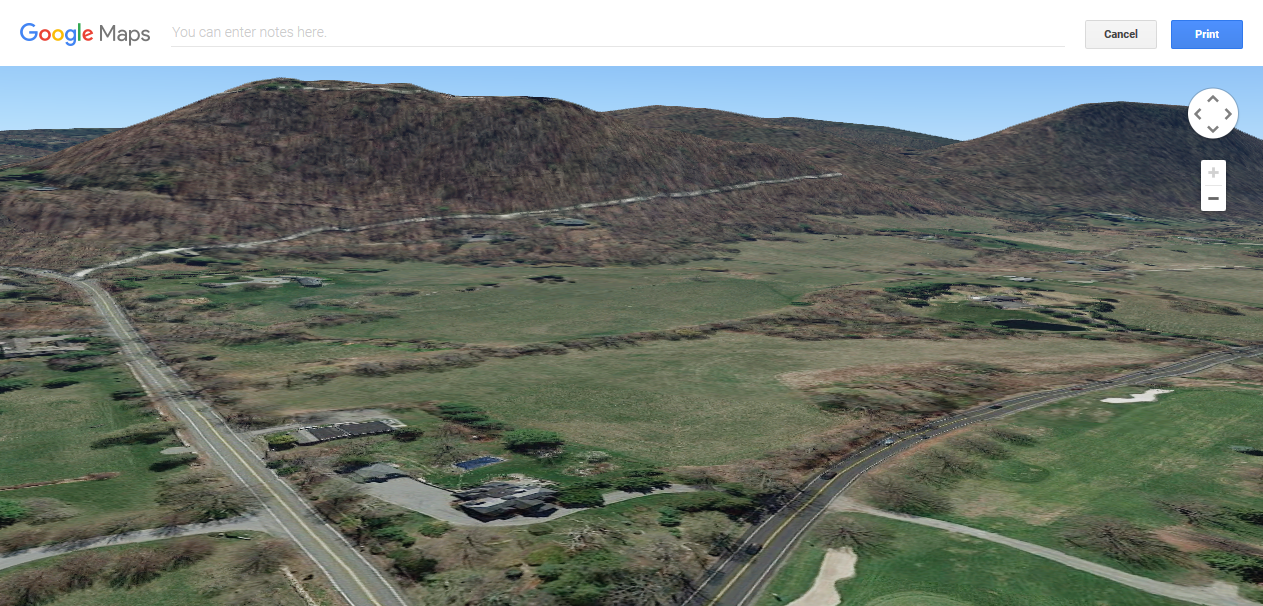
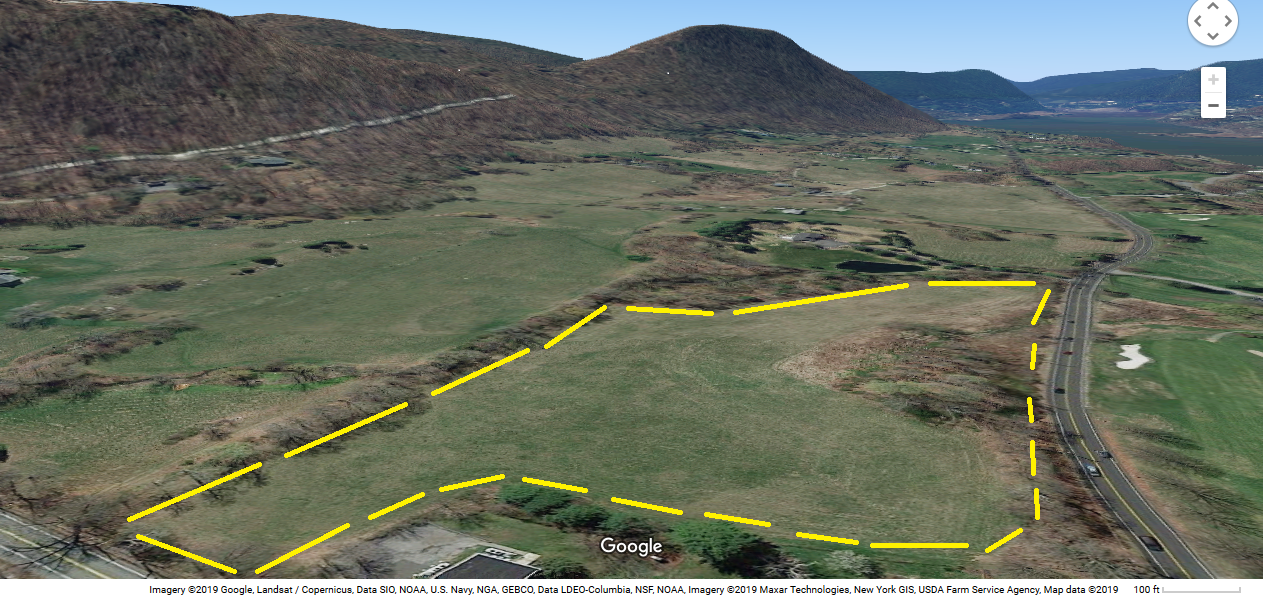
site updates

diff --git a/src/copy.js b/src/copy.js
@@ -1,6 +1,6 @@
 const copy = {
 email: {
-body: `Contact **New Leaf Restoration** by email at  
+body: `Contact **New Leaf Restoration** by email at
 [info@newleaf-restoration.org](mailto:info@newleaf-restoration.org)`
 },
 intro: {
@@ -13,7 +13,7 @@ Proposed for town-wide community gardens, this uncommon pasture combines agricul
 
 steering: {
 header: `Master Plan`,
-body: `A local steering committee proposed to the Town Board to organize a restoration of this pasture into town-wide community gardens with various produce, ornamental and pollinator gardens.  A Master Plan was presented to the Town Board in Spring 2019.  **New Leaf**’s vision is an inter-generational site. Once restored it will guarantee an organic plot to every Philipstown residence while enhancing our community.
+body: `A local steering committee proposed to the Town Board to organize a restoration of this pasture into town-wide community gardens with various produce, ornamental and pollinator gardens.  A Master Plan was presented to the Town Board in Spring 2019.  **New Leaf**’s vision is an inter-generational site. Once restored the produce garden will offer an organic plot to each residence in Philipstown while enhancing our community.
 
 The proposed Master Plan is a starting point, phased-in and not intended to be completed all at once. Listed below are the Garden Aspects. These are smaller, planned, team-based garden projects within the scope of the Master Plan.`
 },
@@ -40,7 +40,7 @@ body: `The pasture has substantial invasive species including multiflora rose, b
 
 discussionsWithRec: {
 header:`Discussions with Recreation Commission`,
-body: `The Town Board recommended that New Leaf consult with the Philipstown Recreation Commission. Positive discussions have vetted both **New Leaf’s** proposal and the Recreation Commission’s proposal for the property.  Discussions are ongoing and if **New Leaf** is granted approval by the Town Board, we’ll begin targeted but light density volunteer work on a few limited Garden Aspects for the spring 2020. `,
+body: `The Town Board recommended that **New Leaf** consult with the Philipstown Recreation Commission. Positive discussions have vetted both **New Leaf’s** proposal and the Recreation Commission’s proposal for the property. Discussions are ongoing and if **New Leaf** is granted approval by the Town Board, we will begin targeted but light density volunteer work on a few limited Garden Aspects for the spring 2020.`,
 },
 
 // --

diff --git a/src/components/seo.js b/src/components/seo.js
@@ -24,6 +24,8 @@ function SEO({ description, lang, meta, title }) {
       }
     `
   )
+  console.log('site',site);
+  console.log('description, lang, meta, title',description, lang, meta, title)
 
   const metaDescription = description || site.siteMetadata.description
 
@@ -32,7 +34,7 @@ function SEO({ description, lang, meta, title }) {
       htmlAttributes={{
         lang,
       }}
-      title={title}
+      title={site.siteMetadata.title}
       titleTemplate={`%s | ${site.siteMetadata.title}`}
       meta={[
         {
@@ -41,11 +43,11 @@ function SEO({ description, lang, meta, title }) {
         },
         {
           property: `og:title`,
-          content: title,
+          content: site.siteMetadata.title,
         },
         {
           property: `og:description`,
-          content: metaDescription,
+          content: `A local steering committee proposed to the Town Board to organize a restoration of this pasture into town-wide community gardens with various produce, ornamental and pollinator gardens.`,
         },
         {
           property: `og:type`,

diff --git a/src/Homepage.js b/src/Homepage.js
@@ -125,6 +125,7 @@ const styles={
 
 const Homepage = ({classes}) => (
   <div className={classes.container}>
+    <SEO />
     <div className={classes.headerLogoWrap}>
       <img src={'/images/headerlogo.png'} className={classes.headerLogo} />
     </div>
@@ -172,18 +173,19 @@ const Homepage = ({classes}) => (
             href="/images/siteplan.jpg"
             openInNewTab
           />
+          <Info copy="gardenAspects" />
           <div className={classes.hideWhenWide}>
             <Info copy="discussionsWithRec" />
             <Info copy="governance" />
           </div>
-          <Info copy="gardenAspects" />
+
           <Info
             copy="eradication"
           />
           <Thumbnail
             headline="Location in Garrison"
-            src="/images/googleEarth.jpg"
-            href="/images/googleEarth.jpg"
+            src="/images/googleEarth.png"
+            href="/images/googleEarth.png"
             openInNewTab
           />
           <div className={classes.hideWhenWide}>
